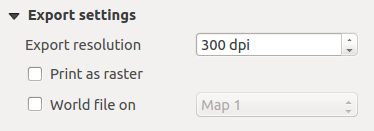
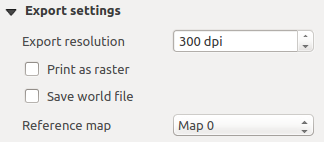
Fixes #1068 Default georeference output Small fixe to the grammar and sphinx syntax

diff --git a/source/docs/user_manual/print_composer/create_output.rst b/source/docs/user_manual/print_composer/create_output.rst
@@ -7,9 +7,9 @@
 
 .. _create-output:
 
-********************
+*******************
  Creating an Output
-********************
+*******************
 
 .. only:: html
 
@@ -47,20 +47,21 @@ to define the resolution (print quality) and paper size:
   canvas directly as a PDF.
 
 Export as Image
-================
+===============
 
 Clicking the |saveMapAsImage| :sup:`Export as image` icon will ask you to
-enter the filename to use to export composition: in case of multi-page composition,
-each page will be exported to a file with the given name appended with the page
-number.
+enter the filename to use to export composition: in the case of multi-page
+composition, each page will be exported to a file with the given name
+appended with the page number.
 
 You can then override the print resolution (set in Composition tab) and resize
 exported image dimensions.
 
 .. _crop_to_content:
 
-By checking |checkbox| :guilabel:`Crop to content` option, the images output by
-composer will include only the area of the composition with content.
+By checking |checkbox| :guilabel:`Crop to content` option, the images
+outputted by the composer will include only the area of the composition with
+content.
 There's also an option for margins to add around the item bounds if required.
 
 If the composition includes a single page, then the output will
@@ -76,24 +77,30 @@ include the area of that page with items.
    Image Export Options
 
 If you need to export your layout as a **georeferenced image** (e.g., to share
-with other projects), you need to enable this feature under the Composition tab.
-Check |checkbox| :guilabel:`World file on` and choose the map item to use.
+with other projects), you need to enable this feature under the
+:ref:`composer_composition_tab`.
+
+If the output format is a TIFF format, all you need to do is make sure to
+select the correct map item to use in |selectString|
+:guilabel:`Reference map`, and the output will always be a GeoTIFF. For other
+image formats, you also need to check the |checkbox| :guilabel:`Save world
+file` option.
 With this option, the 'Export as image' action will create a world file along
-the exported image.
+with the exported image.
 
 .. note::
 
-   Exporting big rasters can sometimes fail, even if there seems to be
+   Exporting large rasters can sometimes fail, even if there seems to be
    enough memory. This is a problem with the underlying Qt management of rasters.
 
 Export as SVG
-==============
+=============
 
 With |saveAsSVG| :sup:`Export as SVG`, you also need to fill the filename
 (used as a basename for all files in case of multi_page composition) and then
 can apply |checkbox| :guilabel:`Crop to content` :ref:`option <crop_to_content>`.
 
-The SVG export options dialog allows also to :
+The SVG export options dialog also allows to:
 
 * :guilabel:`export map layers as svg groups`:
 * render map labels as outlines
@@ -112,18 +119,22 @@ The SVG export options dialog allows also to :
    in future versions.
 
 Export as PDF
-==============
+=============
 
 The |saveAsPDF| :sup:`Export as PDF` exports all the composition into a
 single PDF file.
 
 If you applied to your composition or any shown layer an advanced effect such as
 blend modes, transparency or symbol effects, these cannot be printed
-as vectors and your effects may be lost.
-Checking :guilabel:`Print as a raster` in Composition tab helps to keep the effects
-but rasterize the composition. Note that the :guilabel:`Force layer to render
-as raster` in the Rendering tab of Layer Properties is a layer-level alternative
-that avoids global composition rasterization.
+as vectors, and the effects may be lost. Checking :guilabel:`Print as a
+raster` in the :ref:`composer_composition_tab` helps to keep the effects but
+rasterize the composition. Note that the :guilabel:`Force layer to render as
+raster` in the Rendering tab of Layer Properties is a layer-level alternative that
+avoids global composition rasterization.
+
+If you need to export your layout as a **georeferenced PDF**, in the
+:ref:`composer_composition_tab`, make sure to select the correct map item to
+use in |selectString| :guilabel:`Reference map`.
 
 
 .. index:: Atlas generation
@@ -131,7 +142,7 @@ that avoids global composition rasterization.
 .. _atlas_generation:
 
 Generate an Atlas
-==================
+=================
 
 The Print Composer includes generation functions that allow you to create map
 books in an automated way. The concept is to use a coverage layer, which contains

diff --git a/source/docs/user_manual/print_composer/overview_composer.rst b/source/docs/user_manual/print_composer/overview_composer.rst
@@ -403,14 +403,16 @@ Export settings
 ...............
 
 You can define a resolution to use for all exported maps in :guilabel:`Export
-resolution`. This setting can however be overridden each time you are exporting a map.
+resolution`. This setting can, however, be overridden each time you are
+   exporting a map.
 When checked, |checkbox| :guilabel:`print as raster` means all elements will be
 rasterized before printing or saving as PostScript or PDF.
 
 While exporting to an image file format, you can choose to generate a world file
-by checking |checkbox| :guilabel:`World file on` and select a map item.
-The world file is created beside the exported map, has same name and contains
-information to easily georeference it.
+by checking |checkbox| :guilabel:`Save world file` and select a map item in
+|selectString| :guilabel:`Reference map`. The world file is created beside
+the exported map, has the same name and contains information to georeference
+it easily.
 
 .. _figure_composition_export:
 
